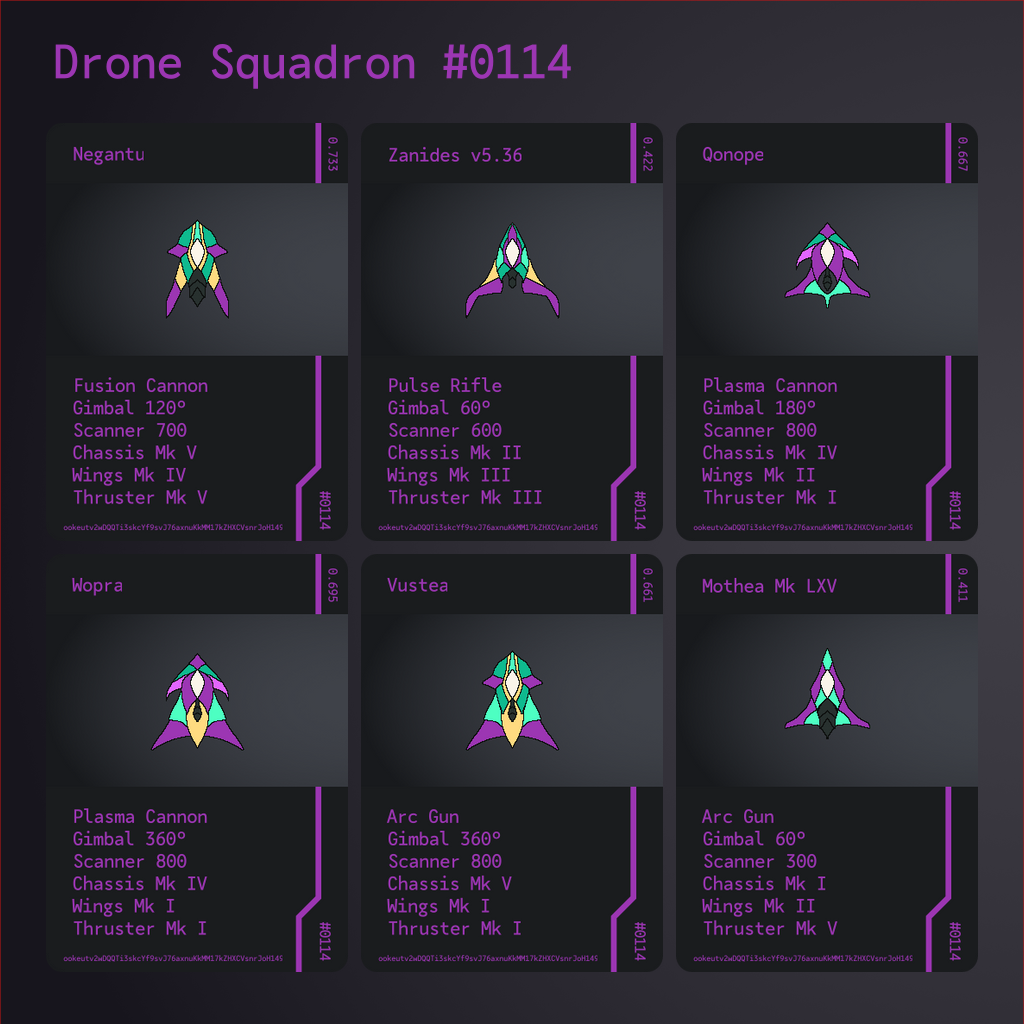
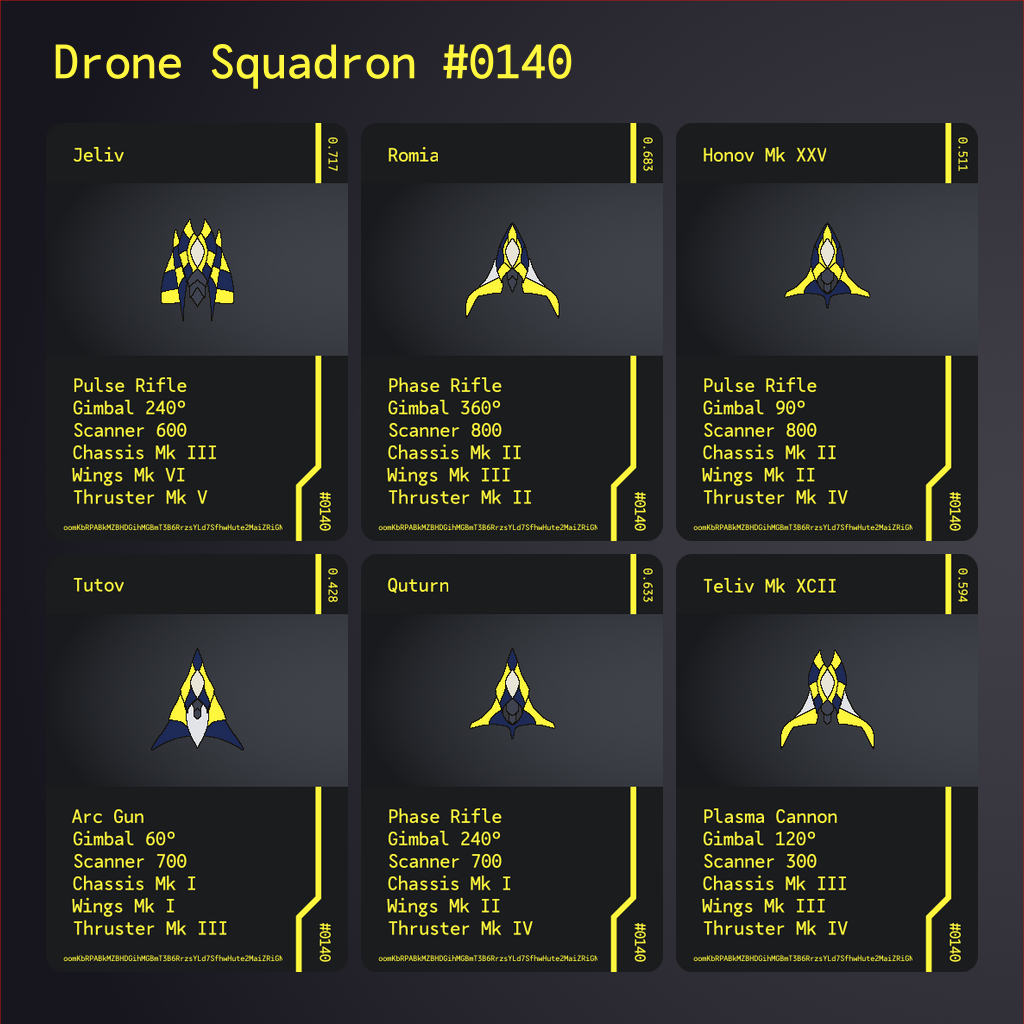
Add latest

diff --git a/index.js b/index.js
@@ -943,14 +943,144 @@ const allSeeds = [
         seed: 'opTf8wUugRazBDstepp52woq16xPGeuNsrT3vc3c53sjuvRFfoa',
         walletId: 'tz1KySTBB8RXWVraggfXWLaLR9H3K3JBEbgt',
         edition: 113
-    }
-];
-
-const currentSeeds = [
+    },
     {
         seed: 'ookeutv2wDQQTi3skcYf9svJ76axnuKkMM17kZHXCVsnrJoH149',
         walletId: 'tz1f7LPedx2RMTthZUfdySURZPZsBeQb2TFK',
         edition: 114
+    },
+    {
+        seed: 'opQRGj2JQdKtX351y882zqhqsdGkaLweCJrEzfzAKDYtevywqTZ',
+        walletId: 'tz1f7LPedx2RMTthZUfdySURZPZsBeQb2TFK',
+        edition: 115
+    },
+    {
+        seed: 'onwWhF1qhHhboQTm3BXjFzu921ffDBCBUCfbhAJjn4pcmG3GnAj',
+        walletId: 'tz1KggojgYhTawRaj2r9i8mTANNr2Dsn44cx',
+        edition: 116
+    },
+    {
+        seed: 'ooqy95F4fEJFYXTi9ixMYZC5zKbxPcis1QM6bEXY6XvCrWJnwBC',
+        walletId: 'tz1RnCGSjMafWbx6WioVAyw8wxSDTz7parWU',
+        edition: 117
+    },
+    {
+        seed: 'oou8L8kezPakyuZ7U1PYARkMnwiNVr3NxeVuE663JXnL3izgP1d',
+        walletId: 'tz1anXcLR9C6gjs8FLAB5ZuZnLB3MUepByEE',
+        edition: 118
+    },
+    {
+        seed: 'oo9E2iBjNGBTnpXEt8ykrAfLG2yLJzqfeiQQxffQAnYh5C7dFj9',
+        walletId: 'tz1NcUUJKg79Vpk4jxQjmKrrxY7gpUXJXhTY',
+        edition: 119
+    },
+    {
+        seed: 'ooBYwZnnQnVJa1EoqjwjqiaPSipboNev5FfJLjE5xDfqjezCp9V',
+        walletId: 'tz1Uza3jMhipiQMtmeEidizjbSqnqZMQyRv7',
+        edition: 120
+    },
+    {
+        seed: 'ooU3U5Px8BGskucsXYktPKGJkx6ZRDEFcYCc5Uh3YXzvmkCgxwH',
+        walletId: 'tz1SXnaADssozctaFKr6ajZgJ6jSjq5uLxjF',
+        edition: 121
+    },
+    {
+        seed: 'ooZ62LZMwDT2smKrXPt9w24eWnMLuZ1Zq85m9SAKAbBzD4CV2aS',
+        walletId: 'tz1N1uQa5RhpYDcKAGVp9wg3wvJ4oq1VPSsW',
+        edition: 122
+    },
+    {
+        seed: 'op9RD7t5PdHcL5wZapvykvmRYH1qdAHFG6ZKKRMpjezcn7JTHAD',
+        walletId: 'tz1fzJFDVUYJSCv5EkXWv6S1zDNjmPtsxRD2',
+        edition: 123
+    },
+    {
+        seed: 'oneJu4A84ReJ7CNLS3ZakeDt36hZowPYvVj5i8sMZet585V9VwR',
+        walletId: 'tz1PRMuiYwSLE6mJy9PnjScPEGYLiRn6C8b8',
+        edition: 124
+    },
+    {
+        seed: 'opK2d8mBpWiTKWXo9eMbSs87DRXhvnQfZQL2wzVk1oa6RyYbVrU',
+        walletId: 'tz1MDEdswvC13ijGhPKHvAYZYjfNGXnCsekp',
+        edition: 125
+    },
+    {
+        seed: 'ooSNuee7Lms9d1JdTKaw3XpmYkbL3qo1jU18qN22CJ9zQwjc4n5',
+        walletId: 'tz1MDEdswvC13ijGhPKHvAYZYjfNGXnCsekp',
+        edition: 126
+    },
+    {
+        seed: 'ongr44pyeQyf8otrAU1oYL22uBqaBXtWSJknxNJgGh8ibe6MJz3',
+        walletId: 'tz1bpZNjxdgrUkMnGSiuBQduciHKLAFe41gM',
+        edition: 127
+    },
+    {
+        seed: 'op32Nm23pTBa2457CUeGGtJqA2qEDLCsYpFaT1s3kEEZDpnTK6y',
+        walletId: 'tz1bVYxjA1CuaTLqqZ9GwxVtmJQB3c7oNsta',
+        edition: 128
+    },
+    {
+        seed: 'onsT1hvfYNxSckvZ6CduWbsWvifqyHMewzuLJLAQ8JGZHwU9cyj',
+        walletId: 'tz1UZGPJtRLsNyYUuYyQU9DSepSF13XxYxFk',
+        edition: 129
+    },
+    {
+        seed: 'opDaq2fM7A7JKXNvPKWJjNyN1gfdbWxrf5f81Js8bZc6z5A9vU2',
+        walletId: 'tz1YQh4z1fEYZEJhMyV4iXuxAW17LZ4Ashmo',
+        edition: 130
+    },
+    {
+        seed: 'oor6GnbBKhrASLeWxjPs1qAME2CEUM1f1TivyYdc5LLd9NBCnAA',
+        walletId: 'tz1bvZLTXp7fXUSZsVZQRtyvcEz5hy3pGbwZ',
+        edition: 131
+    },
+    {
+        seed: 'oo6PJX2AeZQTNcx9PtcGk6ZSB6BxUgZNG4fXz3YYMgDu3wQxXMc',
+        walletId: 'tz1PYqfNnkpZydtSY2Tn3Rv8mjkgUpHJpFXC',
+        edition: 132
+    },
+    {
+        seed: 'onhEHp14gjsi1xbCB2dFoDzMKNms9UNqxB3T3ZhWfuBShfG7D4w',
+        walletId: 'tz1d4zP1ZbzvXo9nzGVADieAYRyTLJzFvPvW',
+        edition: 133
+    },
+    {
+        seed: 'ooaNU9LPPbXHUD7SJJYMuSQKDVoUkgW4AetEFy3TSwa4r1PN56G',
+        walletId: 'tz1SbPqeXzDLBveaDonADGSBCso3ta7jenHP',
+        edition: 134
+    },
+    {
+        seed: 'ooBgyBWjWaYxXh2yLvksnzabeXeeGLQZFq6ivn34vcj2FpUbDZw',
+        walletId: 'tz1f7LPedx2RMTthZUfdySURZPZsBeQb2TFK',
+        edition: 135
+    },
+    {
+        seed: 'oovx5JjvXBYC1bxPxg6zxo3Wbw913kTYTPxenQwj3fbCosq4xyg',
+        walletId: 'tz1dQoq5JSxGX5ZjT2rM2pABefNMU98MsLvW',
+        edition: 136
+    },
+    {
+        seed: 'onhgdyqCjpyKymqWAwzf6jCcasUDe3gr61GjWh5qa3xSxSKgJBG',
+        walletId: 'tz1WdZcXjzUZUwEYqDvKzYZ5oDMTXgNw9myj',
+        edition: 137
+    },
+    {
+        seed: 'ooNp79oYwjfXnmaSH6EkhfSQm3ELFAXbe5X5ba3PEeVr2EcUZhZ',
+        walletId: 'tz1i5uekB9LeMyJFZKbMD4PkKwSJHpcXVrBJ',
+        edition: 138
+    },
+    {
+        seed: 'oo6kfoCdZjiVwoTjEsgaUBeDwE2s9Ut2DpKT2XZW5UmdmM6u2R8',
+        walletId: 'tz1bfPZGyRWBBUhmVL6AtRBvwtr63B9oBGVc',
+        edition: 139
+    },
+];
+
+const currentSeeds = [
+    {
+        seed: 'oomKbRPABkMZBHDGihMGBmT3B6RrzsYLd7SfhwHute2MaiZRiGN',
+        walletId: 'tz1WLzGuhJx3Tarf3RvzFGgZBHQBYsz956fZ',
+        edition: 140
     }
 ];
 
@@ -962,6 +1092,6 @@ await generateAllSquadrons(currentSeeds);
 // Note: Stats Only
 // await generateStats(allSeeds);
 // Note: Enemies
-await generateEnemySquadronData(10);
+// await generateEnemySquadronData(10);
 // Note: Test Only
 // await generateAllSquadrons(testSeeds, 'player');
